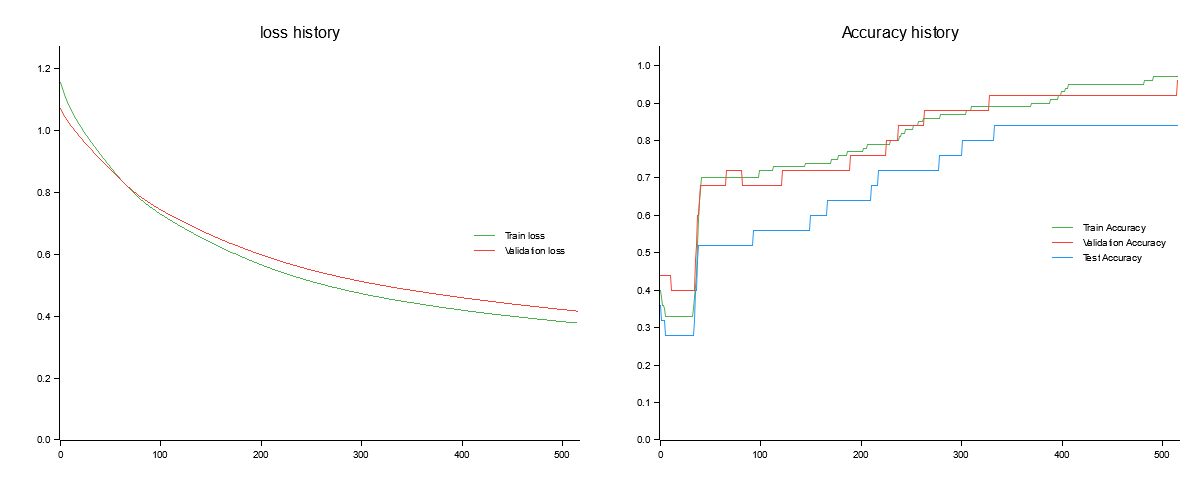
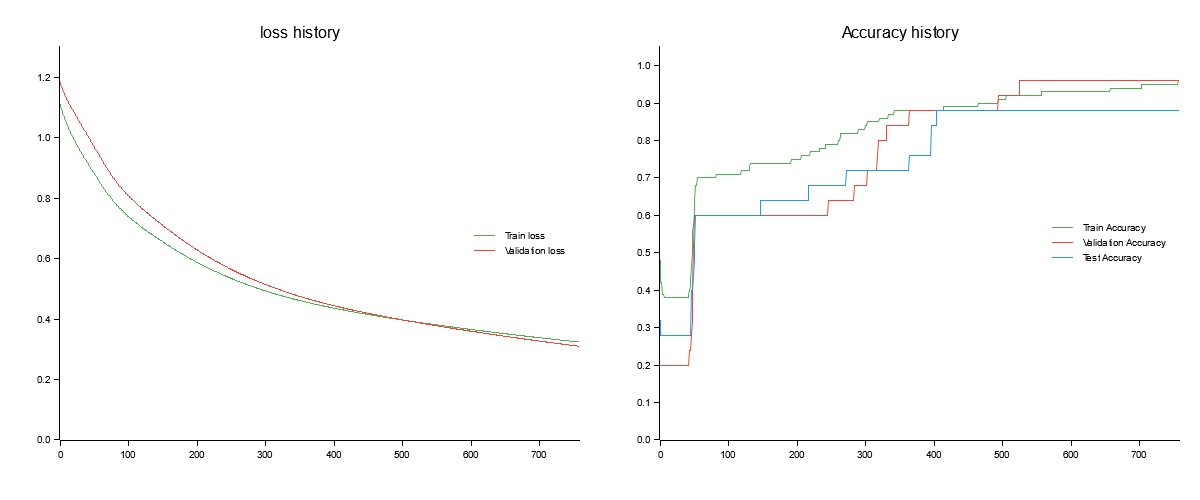
last time to commit i guess

diff --git a/src/main.rs b/src/main.rs
@@ -1,11 +1,9 @@
 use std::collections::HashMap;
 use std::fs::File;
-use std::ops::ControlFlow::Break;
-use std::path::Path;
 use ndarray_rand::RandomExt;
 use ndarray_rand::rand_distr::Normal;
 use plotters::backend::BitMapBackend;
-use plotters::chart::{self, ChartBuilder};
+use plotters::chart::ChartBuilder;
 use plotters::drawing::IntoDrawingArea;
 use plotters::element::{Circle, PathElement};
 use plotters::series::LineSeries;
@@ -15,11 +13,6 @@ use rand::seq::SliceRandom;
 use csv::ReaderBuilder;
 use ndarray::{Array, Array1, Array2, ArrayBase, Axis, Dimension, Zip, s};
 use ndarray_csv::Array2Reader;
-use ndarray_rand::rand::thread_rng;
-
-// use ndarray_rand::rand::{SeedableRng, rngs::StdRng};
-// use ndarray_rand::rand_distr::Normal;
-// use ndarray_rand::RandomExt;
 use ndarray_rand::rand::rngs::StdRng;
 use ndarray_rand::rand::{self, SeedableRng};
 
@@ -139,12 +132,8 @@ impl  Perceptron {
 
         let input_dim = x_train.ncols();
         
-        // let num_rows = x.nrows() as f32;
         
         // สุ่มเริ่มต้นค่าน้ำหนัก (Weights & Biases Initialization)
-        // let normal_dist = Normal::new(0.0, 1.0).unwrap();
-        // let w1_std = (2.0 / (x.ncols() + self.m) as f32).sqrt();
-        // let w2_std = (2.0 / (self.m + num_class) as f32).sqrt();
         let fn_std_w1 = (2.0 / (input_dim + self.m) as f32).sqrt();
         let fn_std_w2 = (2.0 / (input_dim + self.m) as f32).sqrt();
         let fn_std_w3 = (2.0 / (self.m + num_class) as f32).sqrt();
@@ -156,8 +145,6 @@ impl  Perceptron {
         self.w3 = Array2::random_using((self.m, num_class), Normal::new(0.0, fn_std_w3).unwrap(), &mut rng);
         self.b3 = Array1::zeros(num_class);
 
-        // self.entropy.clear();
-        // self.kernel.clear();
         let n_train = x_train.nrows() as f32;
         let n_val = x_val.nrows() as f32;
         let n_test = x_test.nrows() as f32;
@@ -174,7 +161,6 @@ impl  Perceptron {
             // คำนวณ Loss (Entropy)
             let j_train = ha_entropy(&z_train_one_hot, &h3);
             let acc_train = self.calculate_accuracy(&h3, z_train);
-            // self.entropy.push(j);
 
             // Backpropagation (คำนวณ Gradient)
             let ga3 = (&h3 - &z_train_one_hot) / n_train;
@@ -255,7 +241,7 @@ impl  Perceptron {
         let root = BitMapBackend::new(filename, (1200, 500)).into_drawing_area();
         root.fill(&WHITE)?;
         let sub_areas = root.split_horizontally(600);
-        // --- 1. พลอตกราฟ Loss ทางด้านซ้าย ---
+        // --- พลอตกราฟ Loss ทางด้านซ้าย ---
         let area_loss = &sub_areas.0;
         let max_loss = self.entropy_train.iter().chain(&self.entropy_val).fold(f32::NEG_INFINITY, |m, &v| m.max(v)) * 1.1;
         let mut chart_loss = ChartBuilder::on(area_loss)
@@ -278,7 +264,7 @@ impl  Perceptron {
             .legend(|(x, y)| PathElement::new(vec![(x, y), (x + 20, y)], &RED));
         chart_loss.configure_series_labels().background_style(&WHITE.mix(0.8)).draw()?;
 
-        // --- 2. พลอตกราฟ Accuracy ทางด้านขวา ---
+        // --- พลอตกราฟ Accuracy ทางด้านขวา ---
         let area_acc = &sub_areas.1;
         let mut chart_acc = ChartBuilder::on(area_acc)
             .caption("Accuracy history", ("sans-serif",20))
@@ -305,7 +291,6 @@ impl  Perceptron {
             .legend(|(x, y)| PathElement::new(vec![(x, y), (x + 20, y)], &BLUE));
         
         chart_acc.configure_series_labels().background_style(&WHITE.mix(0.8)).draw()?;
-
         
         root.present()?;
         println!("save filed : '{}'", filename);
@@ -326,7 +311,6 @@ fn plot_intput_scatter (
     let x_min = x_train.column(0).fold(f32::INFINITY, |m, &v| m.min(v)) * 0.9;
     let y_max = x_train.column(1).fold(f32::NEG_INFINITY, |m, &v| m.max(v)) * 1.1;
     let y_min = x_train.column(1).fold(f32::INFINITY, |m, &v| m.min(v)) * 0.9;
-
     
     let mut chart = ChartBuilder::on(&root)
         .caption("Input (train set)", ("sans-serif", 24))
@@ -335,7 +319,7 @@ fn plot_intput_scatter (
         .y_label_area_size(40)
         .build_cartesian_2d(x_min..x_max, y_min..y_max)?;
 
-    chart.configure_mesh().disable_mesh().draw()?;
+    chart.configure_mesh().disable_mesh().x_desc("").y_desc("").draw()?;
 
     for i in 0..x_train.nrows() {
         let px = x_train[[i, 0]];
@@ -347,12 +331,13 @@ fn plot_intput_scatter (
             1 => RGBColor(0, 255, 0).mix(0.7),
             _ => RGBColor(0, 0,255).mix(0.7),
         };
+        //body circle
         chart.draw_series(std::iter::once(Circle::new(
             (px, py),
             4,
             dot_color.filled(),
         )))?;
-
+        //edge Circle
         chart.draw_series(std::iter::once(Circle::new(
             (px, py),
             4,
@@ -370,24 +355,22 @@ fn plot_intput_scatter (
 
 
 fn main() {
-    // 1. ระบุชื่อไฟล์ตรงๆ เป็น .data
     let file_path = "data/iris.data";
     let file = File::open(file_path).expect("file data not fond");
-    // จุดเปลี่ยนสำคัญ: ตั้งค่าเป็น false เพราะไฟล์ .data ส่วนใหญ่ไม่มีบรรทัดหัวข้อ (Header)
+    // ตั้งค่าเป็น false เพราะไฟล์ .data ส่วนใหญ่ไม่มีบรรทัดหัวข้อ (Header)
     let mut reader = ReaderBuilder::new()
         .has_headers(false)
         .from_reader(file);
-    // 2. โหลดข้อมูลทั้งหมดเข้า Matrix (สมมติว่าคอลัมน์สุดท้ายเป็นตัวเลขคลาส 0.0, 1.0, 2.0 ไว้แล้ว)
+    //  โหลดข้อมูลทั้งหมดเข้า Matrix 
     let raw_dataset: Array2<String> = reader
         .deserialize_array2_dynamic()
         .expect("failed to deserialize dataset");
 
     println!("load succusfully : {:?}", raw_dataset.dim());
     let num_rows = raw_dataset.nrows();
-
+    // หา class ที่ไม่ซ้ำกันทั้งหมด แล้วสร้าง mapping label -> index
     let mut label_map: HashMap<String, f32> = HashMap::new();
     let mut next_id: f32 = 0.0;
-    
     for i in 0..num_rows {
         let label = raw_dataset[[i, 4]].trim().to_string();
         if !label_map.contains_key(&label) {
@@ -395,7 +378,7 @@ fn main() {
             next_id += 1.0;
         }
     }
-    
+    // ใช้ mapping นี้แปลงข้อมูลจริง
     let mut x = Array2::<f32>::zeros((num_rows, 4));
     let mut z = Array1::<f32>::zeros(num_rows);
 
@@ -411,7 +394,7 @@ fn main() {
     // println!("Z: {:?}", z);
 
     let mut indices: Vec<usize>  = (0..num_rows).collect();
-    let mut rng = rand::rng();
+    let mut rng = rand::rng();      //StdRng::seed_from_u64(42);
     indices.shuffle(&mut rng);
     
     let mut shuffled_x = Array2::<f32>::zeros(x.raw_dim());
@@ -424,7 +407,7 @@ fn main() {
     let test_size = 25;
     let val_size = 25;
     let train_size = num_rows - test_size - val_size;
-
+    // ตัดดึงช่วงข้อมูลแบบสไลด์ (Slicing)
     let x_train = shuffled_x.slice(s![0..train_size, ..]).to_owned();
     let z_train = shuffled_z.slice(s![0..train_size]).to_owned();
 
@@ -434,6 +417,10 @@ fn main() {
     let x_test = shuffled_x.slice(s![(train_size + val_size).., ..]).to_owned();
     let z_test = shuffled_z.slice(s![(train_size + val_size)..]).to_owned();
 
+    // println!("  - Train set : X={:?}, Z={:?}", x_train.dim(), z_train.dim());
+    // println!("  - Val set   : X={:?}, Z={:?}", x_val.dim(), z_val.dim());
+    // println!("  - Test set  : X={:?}, Z={:?}", x_test.dim(), z_test.dim());
+        
     let mut model = Perceptron::new(4, 0.03);
     
     model.training(&x_train, &z_train, &x_val, &z_val, &x_test, &z_test, 5000);